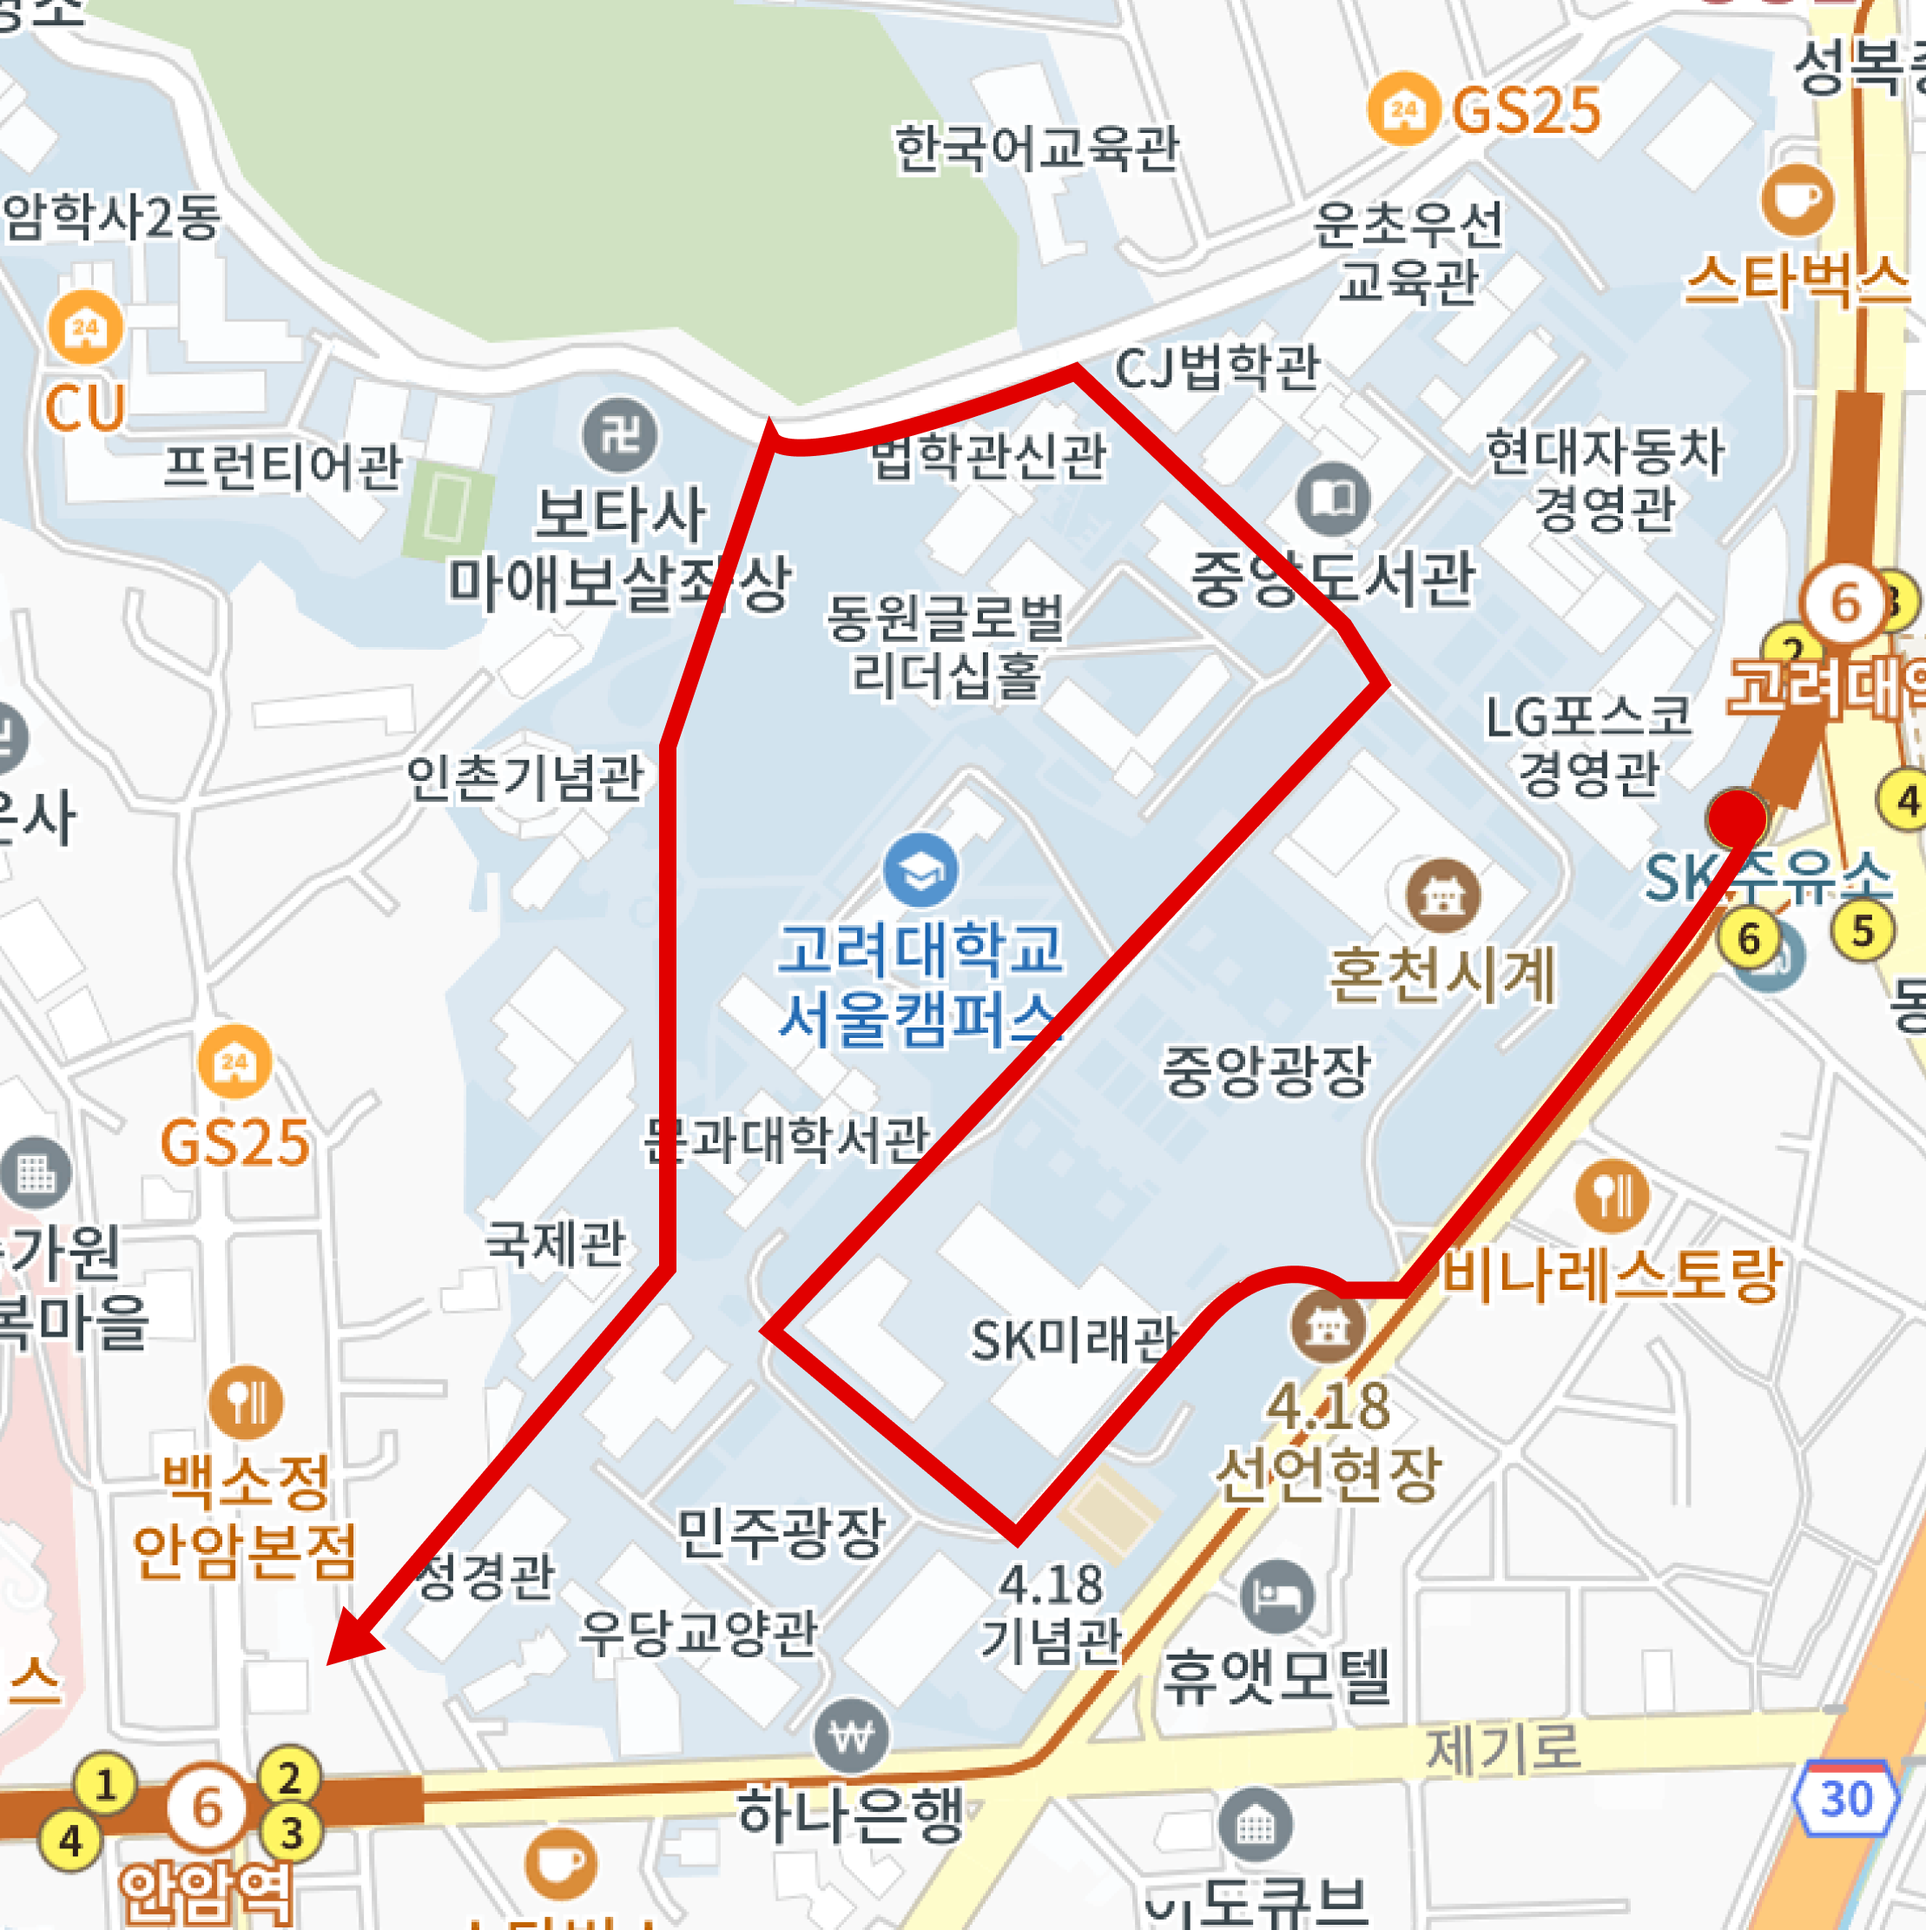
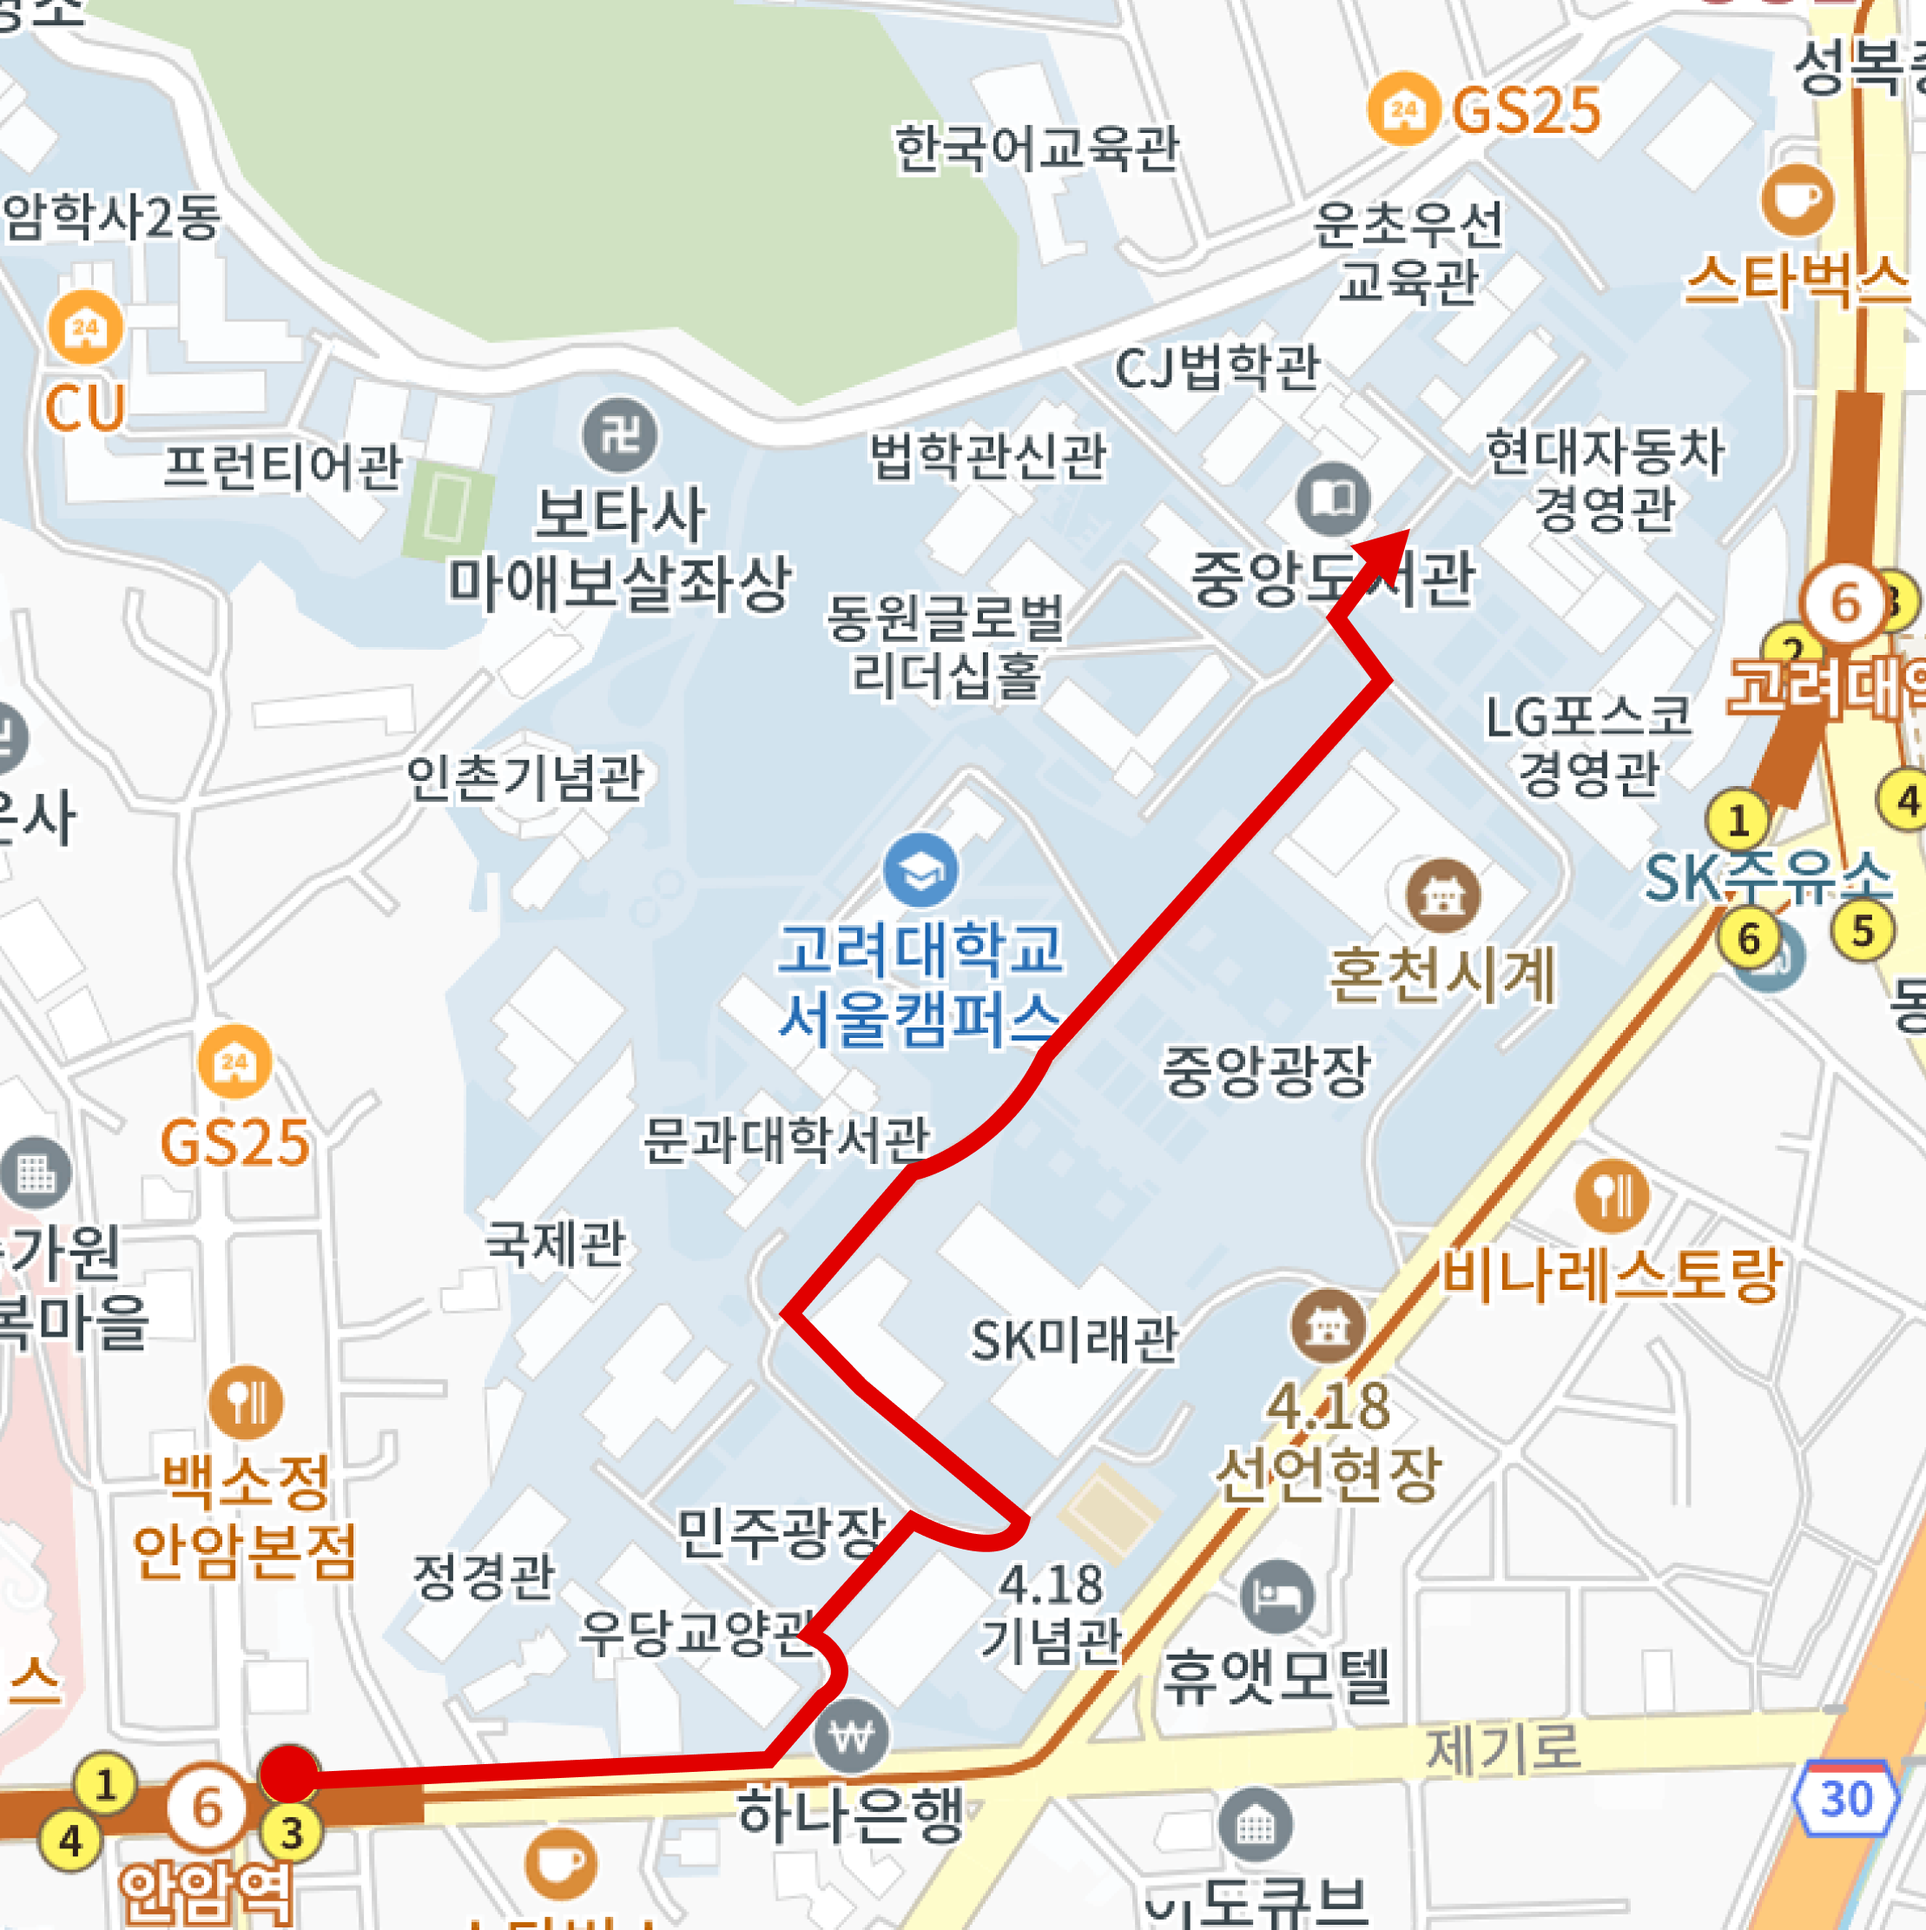
feat: 추천루트 이미지 연동

diff --git a/app/place/[placeId]/path/[pathId]/page.tsx b/app/place/[placeId]/path/[pathId]/page.tsx
@@ -2,7 +2,7 @@
 
 import { ArrowLeft, MapPin } from "lucide-react";
 import { useRouter } from "next/navigation";
-import React, { useState } from 'react';
+import React, { useEffect, useState } from 'react';
 import {
   KeepScale,
   TransformComponent,
@@ -154,13 +154,22 @@ export default function Path({
     "고미술전시실 출구 오른쪽 에스컬레이터를 타시면 3층 현대미술관이 나옵니다.",
     "3층 현대미술전시실",
   ];
-  const [isLoading, setIsLoading] = useState(true);
-  const [pathPoints, setPathPoints] = useState([]);
-
-  getPathPoints(placeId, pathId).then((res) => {
-    setPathPoints(res);
-    setIsLoading(false);
+  const [info, setInfo] = useState({
+    isLoading: true,
+    pathPoints: [],
   });
+  useEffect(
+    ()=>{
+      getPathPoints(placeId, pathId).then((pathPoints) => {
+        setInfo({
+          isLoading: false,
+          pathPoints,
+        });
+      });
+    }, []
+  );
+
+  const {isLoading, pathPoints} = info;
 
   const BACKGROUND_COLOR = "#EEEEEE";
 
@@ -174,12 +183,12 @@ export default function Path({
     // FIXME: 적절한 로딩으로 수정
     return <div>loading</div>;
   }
-
+  const routeImgPath = `/images/route/${placeId}/추천루트${pathId.padStart(2, "0")}.png`;
   return (
     <div>
       <div className={`h-[100dvh]`}>
         <InteractiveMap
-          mapImagePath="/maps/test_map.svg"
+          mapImagePath={routeImgPath}
           mapImageAlt="테스트 지도"
           pathPoints={pathPoints}
           backgroundColor={BACKGROUND_COLOR}

diff --git a/script/process_build_postgres_sql.js b/script/process_build_postgres_sql.js
@@ -30,6 +30,8 @@ const Main = async () => {
     const files = await fs.readdir(ROOT_PATH);
     const result = [];
     for (const placeName of files) {
+        // TODO: 아래 pathID = 1 주석 해제하고, DB 업데이트, 추천루트 리소스명 업데이트
+        // pathID = 1;
         if (placeName.includes("README")) {
             continue;
         }
